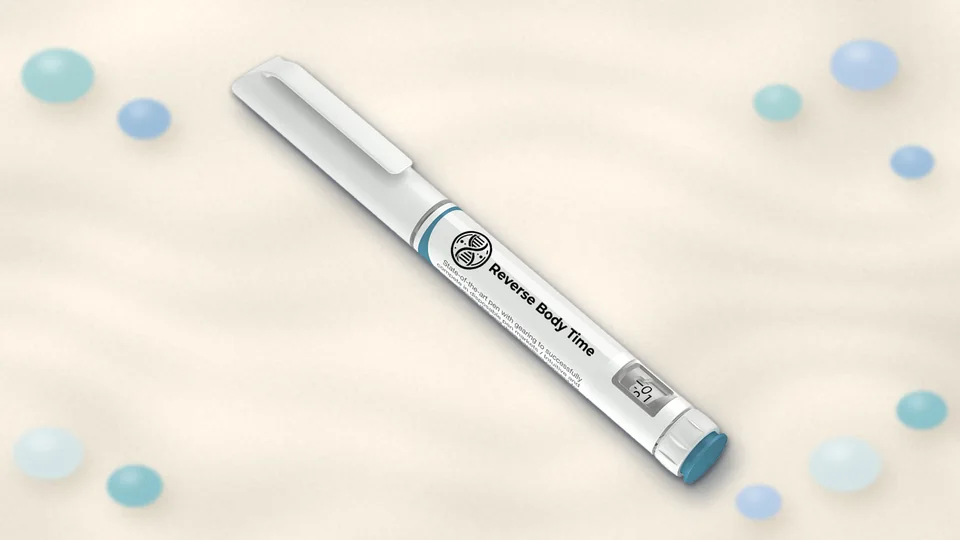
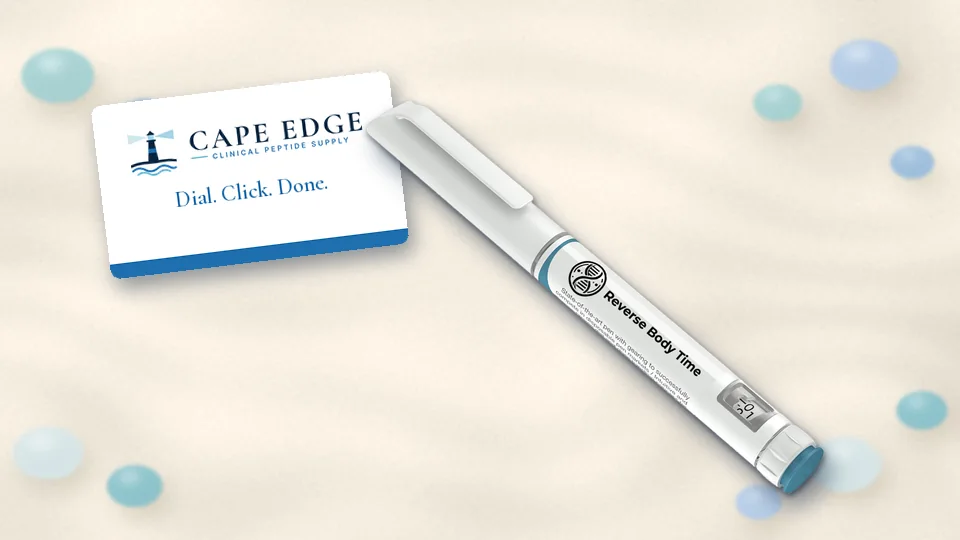
More Cape Edge branding

Changed region(s): [[0.0938, 0.0889, 0.875, 0.9481]]

diff --git a/index.html b/index.html
@@ -6,6 +6,10 @@
 <meta name="viewport" content="width=device-width, initial-scale=1">
 <title>Cape Edge | Pre-Filled Peptide Pens for Licensed Practices</title>
 <meta name="description" content="Cape Edge supplies European-manufactured, pre-filled multi-dose peptide pens to licensed clinicians and practices. Wholesale accounts by application.">
+<link rel="icon" href="img/brand/favicon.svg" type="image/svg+xml">
+<link rel="icon" href="img/brand/favicon-32.png" sizes="32x32" type="image/png">
+<link rel="apple-touch-icon" href="img/brand/apple-touch-icon.png">
+<meta name="theme-color" content="#0b74c6">
 <link rel="preconnect" href="https://fonts.googleapis.com">
 <link rel="preconnect" href="https://fonts.gstatic.com" crossorigin>
 <link href="https://fonts.googleapis.com/css2?family=Cormorant+Garamond:wght@500;600;700&family=Inter:wght@300;400;500;600&display=swap" rel="stylesheet">
@@ -188,25 +192,97 @@ footer ul{list-style:none}footer li{margin-bottom:8px}footer a{text-decoration:n
 .disc{border-top:1px solid rgba(255,255,255,.1);padding-top:28px;font-size:.76rem;line-height:1.7;color:rgba(255,255,255,.55)}
 .disc p{margin-bottom:10px}
 @media(max-width:800px){.foot{grid-template-columns:1fr}}
+
+/* ===== Bright & lively Cape Edge theme ===== */
+.nav ul{gap:22px}.nav ul a{white-space:nowrap;font-size:.86rem}.nav-cta{white-space:nowrap}
+@media(max-width:1100px){.nav ul{display:none}}
+:root{--navy:#0a2540;--brass:#0b74c6;--sea:#2bb3d1;--sea-l:#d9f2fa;--sand:#f2f9fd;--line:rgba(11,116,198,.14);--shadow:0 14px 34px rgba(11,116,198,.12)}
+body{background:#fff}
+.btn{transition:transform .15s,box-shadow .15s,background .15s}
+.btn-primary{background:linear-gradient(135deg,#0b74c6,#0a68b4);color:#fff;box-shadow:0 8px 20px rgba(11,116,198,.30)}
+.btn-primary:hover{transform:translateY(-2px);box-shadow:0 12px 26px rgba(11,116,198,.38);background:linear-gradient(135deg,#0a68b4,#095c9f)}
+.btn-ghost,.btn-outline{border-color:#0b74c6;color:#0b74c6;background:#fff}
+.btn-ghost:hover,.btn-outline:hover{background:#eaf5fd}
+header{background:rgba(255,255,255,.94);border-bottom:1px solid var(--line);box-shadow:0 2px 14px rgba(11,116,198,.06)}
+.nav ul a{color:#24425f}.nav ul a:hover{color:#0b74c6}
+.logo svg{display:block}
+.hero{background:radial-gradient(900px 500px at 85% 0%,#fff6dc 0%,rgba(255,246,220,0) 55%),radial-gradient(1000px 600px at 10% 100%,#c9eef8 0%,rgba(201,238,248,0) 60%),linear-gradient(180deg,#e3f3fc 0%,#f7fcff 100%);color:var(--ink)}
+.hero h1{color:var(--navy)}.hero h1 em{color:#0b74c6}
+.hero p.lead{color:#3c566d}
+.hero .eyebrow{color:#0b74c6}
+.hero-points div{border-left-color:#2bb3d1}.hero-points b{color:var(--navy)}.hero-points span{color:#4f6475}
+.hero-art img{box-shadow:0 26px 50px rgba(11,116,198,.22);border:1px solid rgba(11,116,198,.15)}
+.img-cap{color:#4f6475}
+.badge{display:inline-flex;align-items:center;gap:8px;background:#fff;border:1px solid rgba(11,116,198,.2);color:#0b74c6;font-weight:600;font-size:.8rem;padding:6px 14px 6px 8px;border-radius:999px;margin-bottom:16px;box-shadow:0 4px 12px rgba(11,116,198,.10)}
+.waves path{fill:#f2f9fd}
+.strip{background:#f2f9fd}.strip div:before{background:#2bb3d1}
+.step .num{background:linear-gradient(135deg,#0b74c6,#2bb3d1)}
+.compare thead th{background:#e3f1fb;color:var(--navy);font-weight:600}
+.compare thead th:nth-child(2){background:#0b74c6;color:#fff}
+.compare tbody tr:nth-child(even){background:#f5fafd}
+.dark{background:linear-gradient(180deg,#e6f6fb 0%,#f4fbff 100%);color:var(--ink)}
+.dark h2,.dark h3{color:var(--navy)}.dark .lead{color:#3c566d}
+.hero .eyebrow,.dark .eyebrow{color:#0b74c6}
+.stat{background:#fff;border:1px solid var(--line);box-shadow:var(--shadow)}
+.stat b{color:#0b74c6}.stat h4{color:var(--navy)}.stat p{color:#4f6475}
+.dark .pps{background:rgba(11,116,198,.10);color:#0b74c6}
+.timeline{background:#fff;border:1px solid var(--line)}
+.bar div:first-child{background:linear-gradient(90deg,#2bb3d1,#0b74c6)}.bar div:last-child{background:#7fd3e6}
+.bar-l{color:#4f6475}.note{color:#5d7386}
+.card .ic{background:linear-gradient(135deg,#d9f2fa,#e8f4fd)}
+.bg-sand{background:#f2f9fd}
+.regen{background:linear-gradient(120deg,#e3f6fb 0%,#f5fbff 100%)}
+.doc{background:#f5fafd}
+#faq.bg-sand{background:#f2f9fd}
+footer{background:linear-gradient(180deg,#eaf6fd,#dcefFa);color:#3c566d;border-top:1px solid var(--line)}
+footer h4{color:var(--navy)}footer a:hover{color:#0b74c6}
+.disc{border-top:1px solid var(--line);color:#4f6475}
+.story{background:#fff}
+.story-points{display:flex;gap:28px;margin-top:26px;flex-wrap:wrap}
+.story-points div{border-left:3px solid #2bb3d1;padding-left:12px}
+.story-points b{display:block;font-family:"Cormorant Garamond",serif;font-size:1.5rem;color:var(--navy)}
+.story-points span{font-size:.8rem;color:#4f6475}
+.order{background:linear-gradient(135deg,#0b74c6 0%,#1597d1 60%,#2bb3d1 100%);color:#fff}
+.order h2,.order .eyebrow{color:#fff}.order .lead{color:rgba(255,255,255,.9)}
+.order-grid{display:grid;grid-template-columns:repeat(3,1fr);gap:22px;margin-top:44px}
+.order-card{background:#fff;color:var(--ink);border-radius:var(--r);padding:30px 26px;box-shadow:0 18px 40px rgba(6,60,110,.25);display:flex;flex-direction:column;gap:10px}
+.order-card h3{font-size:1.45rem}.order-card p{color:#4f6475;font-size:.93rem;flex:1}
+.order-card .btn{text-align:center;margin-top:6px}
+.step-n{width:34px;height:34px;border-radius:50%;display:grid;place-items:center;background:#d9f2fa;color:#0b74c6;font-weight:700}
+@media(max-width:900px){.order-grid{grid-template-columns:1fr}}
 </style>
 </head>
 <body>
 
 <header>
   <div class="wrap nav">
-    <a class="logo" href="#top" aria-label="Cape Edge home">
-      <svg width="36" height="36" viewBox="0 0 40 40" aria-hidden="true"><circle cx="20" cy="20" r="19" fill="none" stroke="#1f6fae" stroke-width="1.5"/><path d="M17 9h6l1.5 17h-9z" fill="#fff"/><rect x="16.5" y="7" width="7" height="3" rx="1" fill="#1f6fae"/><path d="M5 29c4-3 8-3 12 0s8 3 12 0 6-2 6-2" stroke="#5fb3cf" stroke-width="2" fill="none"/></svg>
-      <div><span>CAPE EDGE</span><small>Clinical Peptide Supply</small></div>
-    </a>
+    <a class="logo" href="#top" aria-label="Cape Edge home"><svg xmlns="http://www.w3.org/2000/svg" viewBox="0 0 360 80" width="216" height="48" role="img" aria-label="Cape Edge, Clinical Peptide Supply">
+<g transform="translate(4 8)"><g>
+<polygon points="36.5,13.5 62,7 62,20" fill="#5fb3cf" opacity=".55"/>
+<polygon points="27.5,13.5 2,7 2,20" fill="#5fb3cf" opacity=".3"/>
+<polygon points="26.5,11 32,5.5 37.5,11" fill="#0a2540"/>
+<rect x="28" y="11" width="8" height="6.5" rx="1" fill="#9fd4ec"/>
+<rect x="26" y="17.5" width="12" height="2.2" rx=".6" fill="#0a2540"/>
+<polygon points="28.2,19.7 35.8,19.7 38.8,45 25.2,45" fill="#0a2540"/>
+<polygon points="27.1,29 36.9,29 37.6,34.5 26.4,34.5" fill="#1f6fae"/>
+<path d="M2 47.5 C14 43.5 22 45 32 45 C42 45 50 43.5 62 46.5 L62 49.5 C50 46.8 42 48.4 32 48.4 C22 48.4 14 47 2 51 Z" fill="#0a2540"/>
+<path d="M4 55.5 c5.3 -3.6 10.7 -3.6 16 0 s10.7 3.6 16 0 s10.7 -3.6 16 0 c3 2 5.6 2.2 8 1.4" stroke="#1f6fae" stroke-width="2.6" fill="none" stroke-linecap="round"/>
+<path d="M10 61 c4.6 -3 9.4 -3 14 0 s9.4 3 14 0 s9.4 -3 14 0" stroke="#5fb3cf" stroke-width="2.2" fill="none" stroke-linecap="round"/>
+</g></g>
+<text x="84" y="46" font-family="'Cormorant Garamond',Georgia,serif" font-weight="700" font-size="38" letter-spacing="3.5" fill="#0a2540">CAPE EDGE</text>
+<rect x="85" y="55" width="22" height="1.6" fill="#5fb3cf"/>
+<text x="113" y="60" font-family="Inter,Helvetica,Arial,sans-serif" font-weight="600" font-size="9.2" letter-spacing="2.6" fill="#1f6fae">CLINICAL PEPTIDE SUPPLY</text>
+</svg></a>
     <ul>
-      <li><a href="#pen">How the pen works</a></li>
-      <li><a href="#stability">Built to last</a></li>
+      <li><a href="#pen">The pen</a></li>
+      <li><a href="#stability">Stability</a></li>
       <li><a href="#catalog">Catalog</a></li>
-      <li><a href="#quality">Quality</a></li>
-      <li><a href="#regenerative">Regenerative partners</a></li>
+      <li><a href="#story">Our story</a></li>
+      <li><a href="#regenerative">Partners</a></li>
+      <li><a href="#order">Order</a></li>
       <li><a href="#faq">FAQ</a></li>
     </ul>
-    <a class="btn btn-primary" href="#apply">Open an account</a>
+    <a class="btn btn-primary nav-cta" href="#apply">Become a partner</a>
   </div>
 </header>
 
@@ -215,11 +291,23 @@ footer ul{list-style:none}footer li{margin-bottom:8px}footer a{text-decoration:n
 <section class="hero">
   <div class="wrap hero-grid">
     <div>
+      <span class="badge"><svg xmlns="http://www.w3.org/2000/svg" viewBox="0 0 64 64" width="22" height="22" aria-hidden="true"><g>
+<polygon points="36.5,13.5 62,7 62,20" fill="#5fb3cf" opacity=".55"/>
+<polygon points="27.5,13.5 2,7 2,20" fill="#5fb3cf" opacity=".3"/>
+<polygon points="26.5,11 32,5.5 37.5,11" fill="#0a2540"/>
+<rect x="28" y="11" width="8" height="6.5" rx="1" fill="#9fd4ec"/>
+<rect x="26" y="17.5" width="12" height="2.2" rx=".6" fill="#0a2540"/>
+<polygon points="28.2,19.7 35.8,19.7 38.8,45 25.2,45" fill="#0a2540"/>
+<polygon points="27.1,29 36.9,29 37.6,34.5 26.4,34.5" fill="#1f6fae"/>
+<path d="M2 47.5 C14 43.5 22 45 32 45 C42 45 50 43.5 62 46.5 L62 49.5 C50 46.8 42 48.4 32 48.4 C22 48.4 14 47 2 51 Z" fill="#0a2540"/>
+<path d="M4 55.5 c5.3 -3.6 10.7 -3.6 16 0 s10.7 3.6 16 0 s10.7 -3.6 16 0 c3 2 5.6 2.2 8 1.4" stroke="#1f6fae" stroke-width="2.6" fill="none" stroke-linecap="round"/>
+<path d="M10 61 c4.6 -3 9.4 -3 14 0 s9.4 3 14 0 s9.4 -3 14 0" stroke="#5fb3cf" stroke-width="2.2" fill="none" stroke-linecap="round"/>
+</g></svg>The Cape Edge Pen Program</span>
       <span class="eyebrow">For licensed clinicians &amp; practices</span>
       <h1>The pre-filled peptide pen.<br><em>Dial. Click. Done.</em></h1>
       <p class="lead">Cape Edge supplies European-manufactured, multi-dose peptide pens to practices. Each pen arrives pre-filled and sealed, so there's no vial to reconstitute, no syringe to draw up, and a 12-month unopened shelf life <span class="pps">per RBT</span>.</p>
       <div class="ctas">
-        <a class="btn btn-primary" href="#apply">Apply for a wholesale account</a>
+        <a class="btn btn-primary" href="#apply">Apply for a Cape Edge clinical account</a>
         <a class="btn btn-ghost" href="#pen">See how the pen works</a>
       </div>
       <div class="hero-points">
@@ -228,7 +316,7 @@ footer ul{list-style:none}footer li{margin-bottom:8px}footer a{text-decoration:n
         <div><b>EU</b><span>GMP manufacturing, per RBT</span></div>
       </div>
     </div>
-    <div class="hero-art"><img src="img/hero-pen-studio.webp" width="1600" height="900" alt="Reverse Body Time ready-to-use peptide pen on a blue studio surface" fetchpriority="high"><span class="img-cap">Ready-to-use pen manufactured by Reverse Body Time</span></div>
+    <div class="hero-art"><img src="img/hero-pen-studio.webp" width="1600" height="900" alt="Reverse Body Time pre-filled pen beside a Cape Edge program carton" fetchpriority="high"><span class="img-cap">Pen manufactured by Reverse Body Time; distributed by Cape Edge.</span></div>
   </div>
   <svg class="waves" viewBox="0 0 1440 90" preserveAspectRatio="none" height="90"><path d="M0 50 C240 90 480 10 720 40 S1200 90 1440 40 V90 H0Z" fill="#f4f2ed"/><path d="M0 70 C300 40 520 95 820 65 S1260 40 1440 70 V90 H0Z" fill="#f4f2ed" opacity=".6"/></svg>
 </section>
@@ -240,10 +328,10 @@ footer ul{list-style:none}footer li{margin-bottom:8px}footer a{text-decoration:n
 <!-- HOW THE PEN WORKS -->
 <section id="pen">
   <div class="wrap center">
-    <span class="eyebrow">How the pen works</span>
-    <h2>From fridge to administration in four steps</h2>
+    <span class="eyebrow">The Cape Edge Pen Program</span>
+    <h2>How the Cape Edge pen works, in four steps</h2>
     <p class="lead">The peptide is already in solution inside a sealed glass cartridge. A click-indexed dial moves the plunger a fixed distance per click, so the volume is set mechanically rather than read off a syringe.</p>
-    <figure class="pen-figure"><img src="img/pen-clinical-counter.webp" width="1280" height="720" alt="Reverse Body Time pre-filled pen on a clinic counter" loading="lazy"><figcaption>The sealed, pre-filled pen: no vials, no reconstitution. Pen manufactured by Reverse Body Time.</figcaption></figure>
+    <figure class="pen-figure"><img src="img/pen-clinical-counter.webp" width="1280" height="720" alt="Reverse Body Time pre-filled pen in a Cape Edge clinic tray" loading="lazy"><figcaption>The sealed, pre-filled pen: no vials, no reconstitution. Pen manufactured by Reverse Body Time; distributed by Cape Edge.</figcaption></figure>
   </div>
   <div class="wrap">
     <div class="steps">
@@ -281,7 +369,7 @@ footer ul{list-style:none}footer li{margin-bottom:8px}footer a{text-decoration:n
 <section id="stability" class="dark">
   <div class="wrap">
     <span class="eyebrow">Built to last</span>
-    <h2>Stability you can plan inventory around</h2>
+    <h2>Cape Edge stability you can plan inventory around</h2>
     <p class="lead">Our manufacturing partner, Reverse Body Time (RBT), supplies peptides as ready-to-use pens with buffered formulation and light-resistant packaging <span class="pps">per RBT</span>. That means less waste and simpler stock management for your practice. Figures below are as published by RBT; lot-specific expiry is printed on each carton and COA.</p>
     <div class="stab-grid">
       <div class="stat"><b>12 mo</b><h4>Unopened shelf life</h4><p>Ready-to-use pen, stored refrigerated as directed. <span class="pps">per RBT</span></p></div>
@@ -302,7 +390,7 @@ footer ul{list-style:none}footer li{margin-bottom:8px}footer a{text-decoration:n
 <section id="why">
   <div class="wrap center">
     <span class="eyebrow">Why Cape Edge</span>
-    <h2>A supply partner built for practices</h2>
+    <h2>Why practices choose Cape Edge</h2>
     <p class="lead">Based on Cape Cod, Massachusetts, we focus on one thing: dependable, documented pen-format supply for licensed professionals.</p>
   </div>
   <div class="wrap why-grid">
@@ -315,16 +403,30 @@ footer ul{list-style:none}footer li{margin-bottom:8px}footer a{text-decoration:n
   </div>
 </section>
 
+<!-- STORY -->
+<section id="story" class="story">
+  <div class="wrap two">
+    <div>
+      <span class="eyebrow">Our story</span>
+      <h2>Born on the Cape. Built for practices.</h2>
+      <p class="lead">Cape Edge started in Falmouth, on Cape Cod, where the land meets the Atlantic. The name is a nod to that coastline, and to the standard we hold ourselves to: no shortcuts, clear documentation, and real people who answer the phone.</p>
+      <p style="margin-top:16px;color:var(--muted)">We're a small Cape Cod team that came to this work from local business and community health. We built Cape Edge to give licensed practices a simpler, better-documented way to stock pre-filled pens, with the same care you'd expect from a neighbor.</p>
+      <div class="story-points"><div><b>Falmouth, MA</b><span>Home port</span></div><div><b>B2B only</b><span>Licensed practices</span></div><div><b>Lot-level</b><span>Documentation</span></div></div>
+    </div>
+    <figure class="pen-figure" style="margin:0"><img src="img/card-tb500.webp" width="960" height="540" alt="Cape Edge card and Reverse Body Time pen on Cape Cod sand with sea glass" loading="lazy"><figcaption>Pen manufactured by Reverse Body Time; distributed by Cape Edge.</figcaption></figure>
+  </div>
+</section>
+
 <!-- CATALOG -->
 <section id="catalog" class="bg-sand">
   <div class="wrap center">
     <span class="eyebrow">Practitioner catalog</span>
-    <h2>Featured pens</h2>
+    <h2>The Cape Edge pen catalog</h2>
     <p class="lead">Pricing is shown to approved accounts. Product information is provided for licensed professionals and describes format and specifications only. It does not describe a use.</p>
   </div>
   <div class="wrap cat-grid">
     <article class="prod">
-      <div class="prod-top"><span class="tag">Single compound</span><img src="img/card-bpc157.webp" width="960" height="540" alt="BPC-157: Reverse Body Time pre-filled pen" loading="lazy"></div>
+      <div class="prod-top"><span class="tag">Single compound</span><img src="img/card-bpc157.webp" width="960" height="540" alt="BPC-157: Reverse Body Time pre-filled pen, distributed by Cape Edge" loading="lazy"></div>
       <div class="prod-body">
         <h3>BPC-157</h3><p class="sub">Pentadecapeptide · pre-filled pen</p>
         <ul class="spec"><li><span>Format</span><span>Ready-to-use injectable pen <span class="pps">per RBT</span></span></li><li><span>Contents / volume</span><span>[mg · mL to be confirmed]</span></li><li><span>Purity</span><span>&gt;98% HPLC/MS <span class="pps">per RBT</span></span></li><li><span>Storage</span><span>Refrigerated, avoid freeze-thaw <span class="pps">per RBT</span></span></li><li><span>Unopened shelf life</span><span>12 months <span class="pps">per RBT</span></span></li><li><span>Pen tip</span><span>30–32G ultra-fine <span class="pps">per RBT</span></span></li></ul>
@@ -333,7 +435,7 @@ footer ul{list-style:none}footer li{margin-bottom:8px}footer a{text-decoration:n
       </div>
     </article>
     <article class="prod">
-      <div class="prod-top"><span class="tag">Single compound</span><img src="img/card-tb500.webp" width="960" height="540" alt="TB-500: Reverse Body Time pre-filled pen" loading="lazy"></div>
+      <div class="prod-top"><span class="tag">Single compound</span><img src="img/card-tb500.webp" width="960" height="540" alt="TB-500: Reverse Body Time pre-filled pen, distributed by Cape Edge" loading="lazy"></div>
       <div class="prod-body">
         <h3>TB-500</h3><p class="sub">Thymosin β4 fragment · pre-filled pen</p>
         <ul class="spec"><li><span>Format</span><span>Ready-to-use injectable pen <span class="pps">per RBT</span></span></li><li><span>Contents / volume</span><span>[mg · mL to be confirmed]</span></li><li><span>Purity</span><span>&gt;98% HPLC/MS <span class="pps">per RBT</span></span></li><li><span>Storage</span><span>Refrigerated, avoid freeze-thaw <span class="pps">per RBT</span></span></li><li><span>Unopened shelf life</span><span>12 months <span class="pps">per RBT</span></span></li><li><span>Pen tip</span><span>30–32G ultra-fine <span class="pps">per RBT</span></span></li></ul>
@@ -342,7 +444,7 @@ footer ul{list-style:none}footer li{margin-bottom:8px}footer a{text-decoration:n
       </div>
     </article>
     <article class="prod">
-      <div class="prod-top"><span class="tag">Blend</span><img src="img/card-tb500-bpc157.webp" width="960" height="540" alt="TB-500 + BPC-157: Reverse Body Time pre-filled pen" loading="lazy"></div>
+      <div class="prod-top"><span class="tag">Blend</span><img src="img/card-tb500-bpc157.webp" width="960" height="540" alt="TB-500 + BPC-157: Reverse Body Time pre-filled pen, distributed by Cape Edge" loading="lazy"></div>
       <div class="prod-body">
         <h3>TB-500 + BPC-157</h3><p class="sub">Two-peptide combination pen (RBT "TB500+BPC157 Combo")</p>
         <ul class="spec"><li><span>Format</span><span>Ready-to-use injectable pen <span class="pps">per RBT</span></span></li><li><span>Ratio / contents</span><span>[to be confirmed]</span></li><li><span>Purity</span><span>Lot COA on request <span class="pps">per RBT</span></span></li><li><span>Storage</span><span>Refrigerated, avoid freeze-thaw <span class="pps">per RBT</span></span></li><li><span>Unopened shelf life</span><span>12 months <span class="pps">per RBT</span></span></li><li><span>Pen tip</span><span>30–32G ultra-fine <span class="pps">per RBT</span></span></li></ul>
@@ -351,7 +453,7 @@ footer ul{list-style:none}footer li{margin-bottom:8px}footer a{text-decoration:n
       </div>
     </article>
     <article class="prod">
-      <div class="prod-top"><span class="tag">Single compound</span><img src="img/card-ghkcu.webp" width="960" height="540" alt="GHK-Cu: Reverse Body Time pre-filled pen" loading="lazy"></div>
+      <div class="prod-top"><span class="tag">Single compound</span><img src="img/card-ghkcu.webp" width="960" height="540" alt="GHK-Cu: Reverse Body Time pre-filled pen, distributed by Cape Edge" loading="lazy"></div>
       <div class="prod-body">
         <h3>GHK-Cu</h3><p class="sub">Copper tripeptide · pre-filled pen (RBT "Skin-glow")</p>
         <ul class="spec"><li><span>Format</span><span>Ready-to-use injectable pen <span class="pps">per RBT</span></span></li><li><span>Contents / volume</span><span>[mg · mL to be confirmed]</span></li><li><span>Purity</span><span>Lot COA on request <span class="pps">per RBT</span></span></li><li><span>Storage</span><span>Refrigerated, avoid freeze-thaw <span class="pps">per RBT</span></span></li><li><span>Unopened shelf life</span><span>12 months <span class="pps">per RBT</span></span></li><li><span>Pen tip</span><span>30–32G ultra-fine <span class="pps">per RBT</span></span></li></ul>
@@ -360,7 +462,7 @@ footer ul{list-style:none}footer li{margin-bottom:8px}footer a{text-decoration:n
       </div>
     </article>
     <article class="prod">
-      <div class="prod-top"><span class="tag">Custom blend</span><img src="img/card-glow.webp" width="960" height="540" alt="GLOW: Reverse Body Time pre-filled pen" loading="lazy"></div>
+      <div class="prod-top"><span class="tag">Custom blend</span><img src="img/card-glow.webp" width="960" height="540" alt="GLOW: Reverse Body Time pre-filled pen, distributed by Cape Edge" loading="lazy"></div>
       <div class="prod-body">
         <h3>GLOW</h3><p class="sub">BPC-157 + TB-500 + GHK-Cu · availability to be confirmed</p>
         <ul class="spec"><li><span>Status</span><span>Not a standard RBT catalog item</span></li><li><span>Typical formula</span><span>10 / 10 / 50 mg (industry convention)</span></li><li><span>Sourcing</span><span>Custom formulation on request <span class="pps">per RBT</span></span></li><li><span>Shelf life</span><span>[to be confirmed for blend]</span></li></ul>
@@ -369,7 +471,7 @@ footer ul{list-style:none}footer li{margin-bottom:8px}footer a{text-decoration:n
       </div>
     </article>
     <article class="prod">
-      <div class="prod-top"><span class="tag">Investigational</span><img src="img/card-retatrutide.webp" width="960" height="540" alt="Retatrutide: Reverse Body Time pre-filled pen" loading="lazy"></div>
+      <div class="prod-top"><span class="tag">Investigational</span><img src="img/card-retatrutide.webp" width="960" height="540" alt="Retatrutide: Reverse Body Time pre-filled pen, distributed by Cape Edge" loading="lazy"></div>
       <div class="prod-body">
         <h3>Retatrutide</h3><p class="sub">GIP / GLP-1 / glucagon receptor agonist · pre-filled pen (RBT "GLP3")</p>
         <ul class="spec"><li><span>Format</span><span>Ready-to-use injectable pen <span class="pps">per RBT</span></span></li><li><span>Contents / volume</span><span>[mg · mL to be confirmed]</span></li><li><span>Purity</span><span>Lot COA on request <span class="pps">per RBT</span></span></li><li><span>Storage</span><span>Refrigerated, avoid freeze-thaw <span class="pps">per RBT</span></span></li><li><span>Unopened shelf life</span><span>12 months <span class="pps">per RBT</span></span></li><li><span>Pen tip</span><span>30–32G ultra-fine <span class="pps">per RBT</span></span></li></ul>
@@ -385,7 +487,7 @@ footer ul{list-style:none}footer li{margin-bottom:8px}footer a{text-decoration:n
   <div class="wrap two">
     <div>
       <span class="eyebrow">Quality &amp; documentation</span>
-      <h2>Every lot, documented</h2>
+      <h2>Every Cape Edge lot, documented</h2>
       <p class="lead">We don't ask you to take quality on faith. Each shipment is traceable to a manufacturing lot with supporting analysis.</p>
       <ul class="checks">
         <li>Lot-specific Certificate of Analysis: identity (MS), purity (HPLC)</li>
@@ -416,7 +518,7 @@ footer ul{list-style:none}footer li{margin-bottom:8px}footer a{text-decoration:n
 <section id="regenerative" class="regen">
   <div class="wrap regen-box">
     <div>
-      <span class="eyebrow">Regenerative medicine partners</span>
+      <span class="eyebrow">Cape Edge Clinical Partners</span>
       <h2>Working with regenerative &amp; longevity practices</h2>
       <p class="lead">Many of our clinician partners run regenerative, orthopedic, aesthetic and longevity practices. We also help those practices connect with regenerative-product sources that operate within the applicable US framework.</p>
       <p style="margin-top:18px;color:var(--muted)">In the US, human cell and tissue products are regulated by FDA. Most stem-cell, exosome and similar products require FDA approval or an Investigational New Drug (IND) application before clinical use, unless they meet the narrow criteria of 21 CFR 1271.10 (minimal manipulation, homologous use). We only introduce partners who can provide documentation of their regulatory status, and we do not make claims about what any cell or tissue product treats.</p>
@@ -435,12 +537,26 @@ footer ul{list-style:none}footer li{margin-bottom:8px}footer a{text-decoration:n
   </div>
 </section>
 
+<!-- ORDER -->
+<section id="order" class="order">
+  <div class="wrap center">
+    <span class="eyebrow">Order with Cape Edge</span>
+    <h2>Simple ordering for approved practices</h2>
+    <p class="lead">Once your practice is verified, you'll get Cape Edge partner pricing and can order by invoice. No consumer checkout, no guesswork.</p>
+  </div>
+  <div class="wrap order-grid">
+    <div class="order-card"><span class="step-n">1</span><h3>Apply</h3><p>Submit your practice details, NPI and license for verification.</p><a class="btn btn-primary" href="#apply">Apply for a clinical account</a></div>
+    <div class="order-card"><span class="step-n">2</span><h3>Get partner pricing</h3><p>Receive your Cape Edge price sheet and volume tiers: [PRICE].</p><a class="btn btn-outline" href="#apply">Request partner pricing</a></div>
+    <div class="order-card"><span class="step-n">3</span><h3>Order &amp; pay by invoice</h3><p>Place your order and we'll send a practice invoice before cold-chain dispatch.</p><a class="btn btn-primary" href="#apply">Request a practice invoice</a></div>
+  </div>
+</section>
+
 <!-- APPLY -->
 <section id="apply">
   <div class="wrap form-wrap">
     <div>
-      <span class="eyebrow">For clinicians</span>
-      <h2>Open a practice account</h2>
+      <span class="eyebrow">Cape Edge Clinical Partners</span>
+      <h2>Become a Cape Edge Clinical Partner</h2>
       <p class="lead">Cape Edge sells only to licensed healthcare professionals and their practices. Tell us about your practice and we'll verify your credentials, usually within [2] business days.</p>
       <ul class="checks">
         <li>Practitioner pricing and volume tiers</li>
@@ -463,7 +579,7 @@ footer ul{list-style:none}footer li{margin-bottom:8px}footer a{text-decoration:n
         <div class="full"><label for="addr">Practice address *</label><input id="addr" required></div>
         <div class="full"><label for="int">Products of interest</label><textarea id="int" placeholder="e.g. BPC-157, GHK-Cu, GLOW; regenerative partner introductions"></textarea></div>
         <div class="full"><label class="chk"><input type="checkbox" required> I confirm I am a licensed healthcare professional (or authorized on behalf of one) and that products will be used only in accordance with applicable federal and state law.</label></div>
-        <div class="full"><button class="btn btn-primary" type="submit" style="width:100%">Submit application</button></div>
+        <div class="full"><button class="btn btn-primary" type="submit" style="width:100%">Submit my Cape Edge application</button></div>
       </div>
       <div class="ok" id="ok">Thank you. Your application has been received and our team will be in touch after credential verification. (Demo form, not yet connected to a backend.)</div>
     </form>
@@ -480,6 +596,7 @@ footer ul{list-style:none}footer li{margin-bottom:8px}footer a{text-decoration:n
     <details><summary>How should pens be stored?</summary><p>Keep refrigerated and avoid repeated freeze-thaw cycles (per RBT). Protect from light, remove the pen tip after every use and keep the cap on.</p></details>
     <details><summary>Where are the pens made?</summary><p>By Reverse Body Time (RBT), a European manufacturer. RBT states its peptides are made by solid-phase synthesis in GMP-certified, ISO-classified cleanrooms under ISO 9001 / ISO 13485. Facility documentation is available to account holders on request.</p></details>
     <details><summary>Are these products FDA-approved?</summary><p>No. None of the featured peptides is an FDA-approved drug product, and their regulatory status differs by compound (see each catalog card). Practitioners are responsible for determining whether and how any product may be lawfully used in their practice and state.</p></details>
+    <details><summary>Can we get Cape Edge private-label pens?</summary><p>Private-label Cape Edge pens may be available on request for qualifying practice volumes, subject to supplier approval and applicable regulatory requirements. Pens currently carry the manufacturer's (Reverse Body Time) labeling and are distributed by Cape Edge.</p></details>
     <details><summary>Do you provide dosing protocols?</summary><p>No. Cape Edge provides product specifications, documentation and device-handling guidance only. Clinical decisions remain with the licensed practitioner.</p></details>
     <details><summary>How is shipping handled?</summary><p>Orders ship in insulated cold-chain packaging with tracking to the verified practice address. [Shipping times and minimums to be confirmed.]</p></details>
   </div>
@@ -488,7 +605,7 @@ footer ul{list-style:none}footer li{margin-bottom:8px}footer a{text-decoration:n
 <!-- CONTACT -->
 <section id="contact">
   <div class="wrap center">
-    <span class="eyebrow">Contact</span><h2>Talk to the Cape Edge team</h2>
+    <span class="eyebrow">Contact</span><h2>Talk to the Cape Edge team in Falmouth</h2>
     <p class="lead">Questions about accounts, documentation or partnerships? We're based on Cape Cod and happy to talk.</p>
     <div class="contact-grid">
       <div class="card"><h3>Email</h3><p>[hello@capeedge.com]</p></div>
@@ -503,11 +620,27 @@ footer ul{list-style:none}footer li{margin-bottom:8px}footer a{text-decoration:n
   <div class="wrap">
     <div class="foot">
       <div>
-        <a class="logo" href="#top"><svg width="32" height="32" viewBox="0 0 40 40" aria-hidden="true"><circle cx="20" cy="20" r="19" fill="none" stroke="#1f6fae" stroke-width="1.5"/><path d="M17 9h6l1.5 17h-9z" fill="#fff"/><rect x="16.5" y="7" width="7" height="3" rx="1" fill="#1f6fae"/><path d="M5 29c4-3 8-3 12 0s8 3 12 0 6-2 6-2" stroke="#5fb3cf" stroke-width="2" fill="none"/></svg><div><span>CAPE EDGE</span><small>Clinical Peptide Supply</small></div></a>
+        <a class="logo" href="#top" aria-label="Cape Edge home"><svg xmlns="http://www.w3.org/2000/svg" viewBox="0 0 360 80" width="216" height="48" role="img" aria-label="Cape Edge, Clinical Peptide Supply">
+<g transform="translate(4 8)"><g>
+<polygon points="36.5,13.5 62,7 62,20" fill="#5fb3cf" opacity=".55"/>
+<polygon points="27.5,13.5 2,7 2,20" fill="#5fb3cf" opacity=".3"/>
+<polygon points="26.5,11 32,5.5 37.5,11" fill="#0a2540"/>
+<rect x="28" y="11" width="8" height="6.5" rx="1" fill="#9fd4ec"/>
+<rect x="26" y="17.5" width="12" height="2.2" rx=".6" fill="#0a2540"/>
+<polygon points="28.2,19.7 35.8,19.7 38.8,45 25.2,45" fill="#0a2540"/>
+<polygon points="27.1,29 36.9,29 37.6,34.5 26.4,34.5" fill="#1f6fae"/>
+<path d="M2 47.5 C14 43.5 22 45 32 45 C42 45 50 43.5 62 46.5 L62 49.5 C50 46.8 42 48.4 32 48.4 C22 48.4 14 47 2 51 Z" fill="#0a2540"/>
+<path d="M4 55.5 c5.3 -3.6 10.7 -3.6 16 0 s10.7 3.6 16 0 s10.7 -3.6 16 0 c3 2 5.6 2.2 8 1.4" stroke="#1f6fae" stroke-width="2.6" fill="none" stroke-linecap="round"/>
+<path d="M10 61 c4.6 -3 9.4 -3 14 0 s9.4 3 14 0 s9.4 -3 14 0" stroke="#5fb3cf" stroke-width="2.2" fill="none" stroke-linecap="round"/>
+</g></g>
+<text x="84" y="46" font-family="'Cormorant Garamond',Georgia,serif" font-weight="700" font-size="38" letter-spacing="3.5" fill="#0a2540">CAPE EDGE</text>
+<rect x="85" y="55" width="22" height="1.6" fill="#5fb3cf"/>
+<text x="113" y="60" font-family="Inter,Helvetica,Arial,sans-serif" font-weight="600" font-size="9.2" letter-spacing="2.6" fill="#1f6fae">CLINICAL PEPTIDE SUPPLY</text>
+</svg></a>
         <p style="margin-top:16px;max-width:360px">Pre-filled peptide pens for licensed practices. Cape Cod, Massachusetts.</p>
       </div>
       <div><h4>Explore</h4><ul><li><a href="#pen">How the pen works</a></li><li><a href="#stability">Built to last</a></li><li><a href="#catalog">Catalog</a></li><li><a href="#quality">Quality</a></li></ul></div>
-      <div><h4>Practices</h4><ul><li><a href="#apply">Open an account</a></li><li><a href="#regenerative">Regenerative partners</a></li><li><a href="#faq">FAQ</a></li><li><a href="#contact">Contact</a></li></ul></div>
+      <div><h4>Practices</h4><ul><li><a href="#apply">Become a partner</a></li><li><a href="#order">Order</a></li><li><a href="#story">Our story</a></li><li><a href="#regenerative">Regenerative partners</a></li><li><a href="#faq">FAQ</a></li><li><a href="#contact">Contact</a></li></ul></div>
     </div>
     <div class="disc">
       <p><strong>Important information.</strong> Cape Edge sells exclusively to verified licensed healthcare professionals. Products are not offered to consumers. Statements on this website have not been evaluated by the U.S. Food and Drug Administration. The products described are not FDA-approved drugs and are not intended to diagnose, treat, cure, mitigate or prevent any disease. No information on this site is medical advice or a recommendation for use in any patient.</p>
